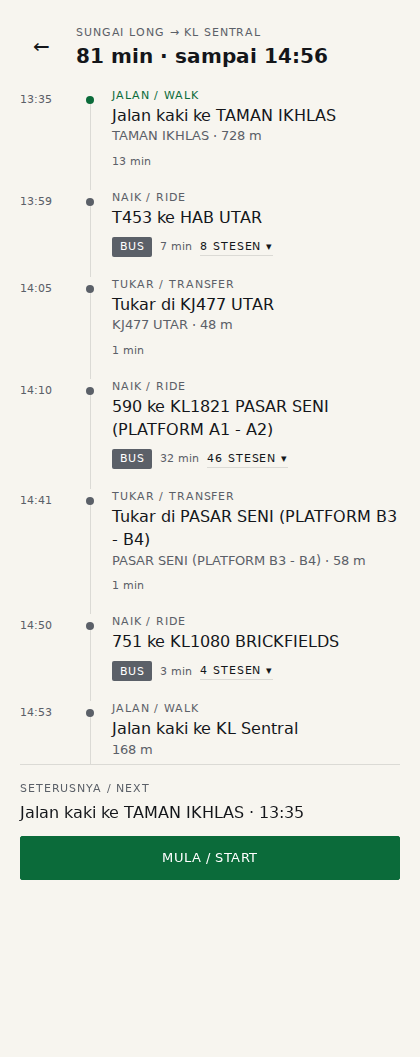
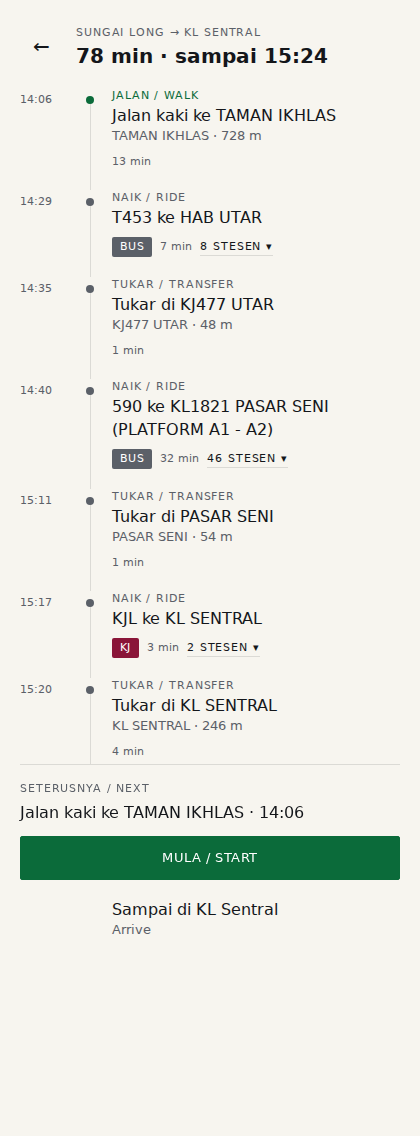
feat(plan): date-aware departure picker
- planJourney accepts an explicit service date; a trip before the 04:00 cutover
  resolves to the previous service day with a +86400 offset so 01:00 sorts after
  23:00 boardings.
- API parses at=YYYY-MM-DDTHH:MM (and date=&at=), rejects past dates and dates
  beyond the newest calendar row, and puts the date in the cache key.
- Every plan carries its service date, and /api/plans copies clock/warning onto
  each itinerary so the client can label it.
- Per-feed calendar bounds: a date with no bus/rail/mrtfeeder rows returns a
  warning instead of silently planning a degraded route.
- Search screen gets a BILA / WHEN datetime picker (empty = now); results show
  'Berlepas Sel, 20 Okt · 07:00'.
- CLI: --date. ui-smoke covers a tomorrow-07:00 search.
- Fix: when-rail-is-missing plans no longer look merely slower without a warning.

diff --git a/src/screens/Search.tsx b/src/screens/Search.tsx
@@ -3,14 +3,16 @@ import Field from "../components/Field";
 import Button from "../components/Button";
 import Alert from "../components/Alert";
 
-type Props = { onSearch: (from: string, to: string, fromName?: string) => void; loading: boolean; error: string | null };
+type Props = { onSearch: (from: string, to: string, fromName?: string, at?: string) => void; loading: boolean; error: string | null };
 
 export default function Search({ onSearch, loading, error }: Props) {
   const [from, setFrom] = useState("Sungai Long");
   const [to, setTo] = useState("KL Sentral");
   const [fromName, setFromName] = useState<string | undefined>();
+  const [when, setWhen] = useState("");
   const [locating, setLocating] = useState(false);
   const [geoError, setGeoError] = useState<string | null>(null);
+  const minWhen = new Date().toLocaleString("sv-SE").slice(0, 16).replace(" ", "T");
 
   const locate = () => {
     setGeoError(null);
@@ -58,10 +60,28 @@ export default function Search({ onSearch, loading, error }: Props) {
         {locating ? "Mencari lokasi… / Locating…" : "◎ Guna lokasi saya / Use my location"}
       </Button>
 
+      <div className="when">
+        <label className="field">
+          <span className="eyebrow">BILA / WHEN</span>
+          <input
+            className="field__input"
+            type="datetime-local"
+            value={when}
+            min={minWhen}
+            onChange={(event) => setWhen(event.target.value)}
+          />
+        </label>
+        {when ? (
+          <button type="button" className="when__clear" onClick={() => setWhen("")}>
+            Sekarang
+          </button>
+        ) : null}
+      </div>
+
       {geoError ? <Alert>{geoError}</Alert> : null}
       {error ? <Alert>{error}</Alert> : null}
 
-      <Button variant="primary" block onClick={() => onSearch(from, to, fromName)} disabled={loading}>
+      <Button variant="primary" block onClick={() => onSearch(from, to, fromName, when || undefined)} disabled={loading}>
         {loading ? "Mencari… / Searching…" : "Cari laluan / Find routes"}
       </Button>
       <p className="footnote">Mana-mana alamat di Malaysia. / Any address in Malaysia.</p>

diff --git a/src/screens/Results.tsx b/src/screens/Results.tsx
@@ -1,5 +1,6 @@
 import LineBadge from "../components/LineBadge";
 import Button from "../components/Button";
+import Alert from "../components/Alert";
 import { lineShort } from "../data/lines";
 import type { Plan } from "../types";
 
@@ -11,6 +12,15 @@ export default function Results({ plans, onBack, onSelect }: Props) {
     ? new Intl.DateTimeFormat("en-GB", { timeZone: "Asia/Kuala_Lumpur", dateStyle: "short", timeStyle: "short" }).format(new Date(best.source.ingested_at))
     : "—";
 
+  const today = new Intl.DateTimeFormat("en-CA", { timeZone: "Asia/Kuala_Lumpur" }).format(new Date());
+  const scheduled = best.clock?.startsWith("scheduled") ?? false;
+  const dayLabel = best.date
+    ? best.date === today
+      ? "hari ini / today"
+      : new Intl.DateTimeFormat("ms-MY", { timeZone: "Asia/Kuala_Lumpur", weekday: "short", day: "numeric", month: "short" }).format(new Date(`${best.date}T00:00:00+08:00`))
+    : "";
+  const whenLabel = scheduled ? `Berlepas ${dayLabel} · ${best.depart}` : null;
+
   return (
     <div className="screen">
       <header className="topbar">
@@ -20,8 +30,11 @@ export default function Results({ plans, onBack, onSelect }: Props) {
         <div>
           <div className="eyebrow">{best.origin.toUpperCase()} → {best.destination.toUpperCase()}</div>
           <h1 className="h2">{plans.length} laluan / routes</h1>
+          {whenLabel ? <div className="route__meta">{whenLabel}</div> : null}
         </div>
       </header>
+
+      {best.warning ? <Alert>{best.warning}</Alert> : null}
 
       <ul className="plain-list">
         {plans.map((plan, index) => {
@@ -51,7 +64,7 @@ export default function Results({ plans, onBack, onSelect }: Props) {
       </ul>
 
       <p className="footnote">
-        Jadual: {ingested} MYT{best.clock?.startsWith("pinned") ? ` · demo clock ${best.clock.slice(7)}` : ""} · {plans.length} laluan.
+        Jadual: {ingested} MYT · {plans.length} laluan.
       </p>
     </div>
   );

diff --git a/src/api.ts b/src/api.ts
@@ -1,11 +1,12 @@
 import type { Plan } from "./types";
 
-type Options = { fromName?: string; toName?: string; signal?: AbortSignal };
+type Options = { fromName?: string; toName?: string; at?: string; signal?: AbortSignal };
 
-export async function fetchPlans(from: string, to: string, { fromName, toName, signal }: Options = {}): Promise<Plan[]> {
+export async function fetchPlans(from: string, to: string, { fromName, toName, at, signal }: Options = {}): Promise<Plan[]> {
   const params = new URLSearchParams({ from, to });
   if (fromName) params.set("fromName", fromName);
   if (toName) params.set("toName", toName);
+  if (at) params.set("at", at);
   const res = await fetch(`/api/plans?${params}`, { signal, headers: { accept: "application/json" } });
   if (!res.ok) {
     const body = await res.json().catch(() => ({}));

diff --git a/src/App.tsx b/src/App.tsx
@@ -15,11 +15,11 @@ export default function App() {
   const [status, setStatus] = useState<Status>("idle");
   const [message, setMessage] = useState("");
 
-  const search = async (from: string, to: string, fromName?: string) => {
+  const search = async (from: string, to: string, fromName?: string, at?: string) => {
     setStatus("loading");
     setMessage("");
     try {
-      const next = await fetchPlans(from, to, { fromName });
+      const next = await fetchPlans(from, to, { fromName, at });
       if (!next.length) throw new Error("Tiada laluan / No route found");
       setPlans(next);
       setPlan(next[0]);

diff --git a/src/styles/app.css b/src/styles/app.css
@@ -123,6 +123,26 @@ button {
   margin-bottom: var(--space-4);
 }
 
+.when {
+  position: relative;
+  margin-bottom: var(--space-6);
+}
+
+.when__clear {
+  position: absolute;
+  right: 32px;
+  bottom: var(--space-4);
+  border: 0;
+  background: none;
+  padding: var(--space-1);
+  color: var(--color-ink-muted);
+  font: inherit;
+  font-size: var(--type-size-xs);
+  letter-spacing: var(--type-tracking-label);
+  text-transform: uppercase;
+  cursor: pointer;
+}
+
 .btn {
   display: inline-flex;
   align-items: center;

diff --git a/src/types.ts b/src/types.ts
@@ -22,8 +22,10 @@ export type Plan = {
   destination: string;
   depart: string;
   arrive: string;
+  date?: string;
   total_minutes: number;
   source: { feed: string; ingested_at: string | null };
   clock?: string;
+  warning?: string;
   legs: PlanLeg[];
 };

diff --git a/NEXT.md b/NEXT.md
@@ -19,7 +19,12 @@ changes, not when plans are made (plans belong in `BACKLOG.md`).
   plan** (was 2–3 s). The first request after boot is ~90 ms because the API warms the JIT.
 - `npm run route -- --from 3.0417,101.8014 --to 3.1344,101.6863 --at 08:00 --rounds 3`
 - `/api/plan?from=&to=&at=&rounds=` accepts an address (Nominatim, cached, 1 req/s) or `lat,lon`.
-  With no params it plans the Sungai Long residence → KL Sentral.
+  With no params it plans the Sungai Long residence → KL Sentral. `at=YYYY-MM-DDTHH:MM` plans a
+  date (service-day aware: a 01:00 trip belongs to the previous service day).
+- The search screen has a BILA / WHEN picker; the results header then reads
+  “Berlepas Sel, 20 Okt · 07:00”. A date outside a core feed's calendar shows a warning instead of
+  silently planning a degraded route.
+- `npm run route -- --from ... --to ... --date 2026-10-21 --at 07:00`
 - The UI searches any Malaysian address; the corridor gate is gone.
 - `/api/plans` returns up to 3 itineraries, each forced to start on a different first vehicle;
   the results screen lists them with Tercepat / Alternatif tags.
@@ -46,13 +51,18 @@ Pick one:
 
 - Walking is straight-line × 1.3 ÷ 75 m/min: no street network, no station egress time. A final
   walk under 30 s is folded into the arrival instead of shown.
-- One itinerary only. RAPTOR keeps the best label per stop and discards the rest.
 - Corridor prune: stops farther than `max(8 km, 35% × direct distance)` from the straight line are
   never expanded. A legitimate wide detour can be hidden by this.
 - Frequency trips use the pattern's template offsets; a per-trip offset difference of a minute is
   not modelled.
 - `kota-bharu` and `kuala-terengganu` are empty upstream.
 - Fares are absent from GTFS; do not promise them.
+- Alternatives are up to 3, found by banning the previous itinerary's first pattern. That is a
+  heuristic, not k-shortest: a genuinely different second-best route that starts on the same first
+  vehicle is invisible.
+- Calendar coverage is uneven: KTMB ends 2026-11-02, mrtfeeder 2026-11-15, rail 2026-12-31, bus
+  2027-03-31. Planning New Year or CNY 2027 works only partially and says so in a warning; it is
+  not a booking-grade answer.
 - No rail realtime — positions are schedule-derived and must never be labelled live.
 
 ## Reading order for a new session

diff --git a/README.md b/README.md
@@ -32,6 +32,7 @@ npm run next -- --stop KG31 --dir north         # next MRT at Bukit Dukung
 npm run next -- --feed ktmb --stop Kajang --at 08:00
 npm run next -- --stop KG31 --dir north --json  # machine-readable
 npm run route -- --from 3.0417,101.8014 --to 3.1344,101.6863 --at 08:00
+npm run route -- --from 3.0417,101.8014 --to 3.1344,101.6863 --date 2026-10-21 --at 07:00
 ```
 
 The router (round-based RAPTOR over precomputed patterns) plans any A→B point. `npm run ingest`
